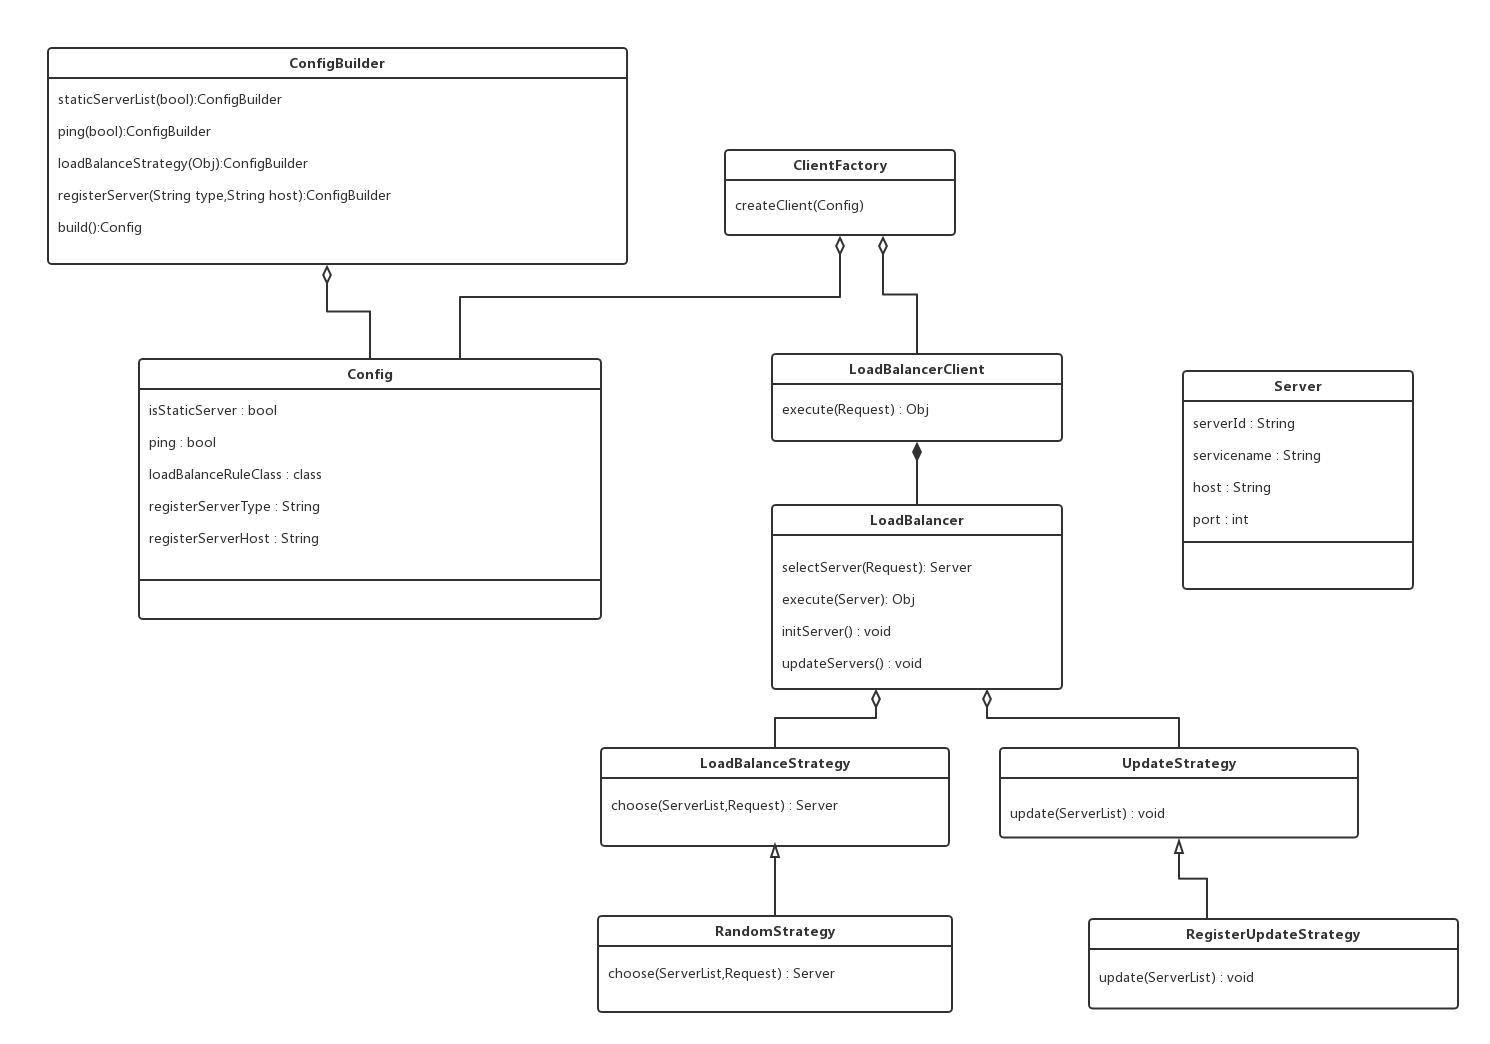
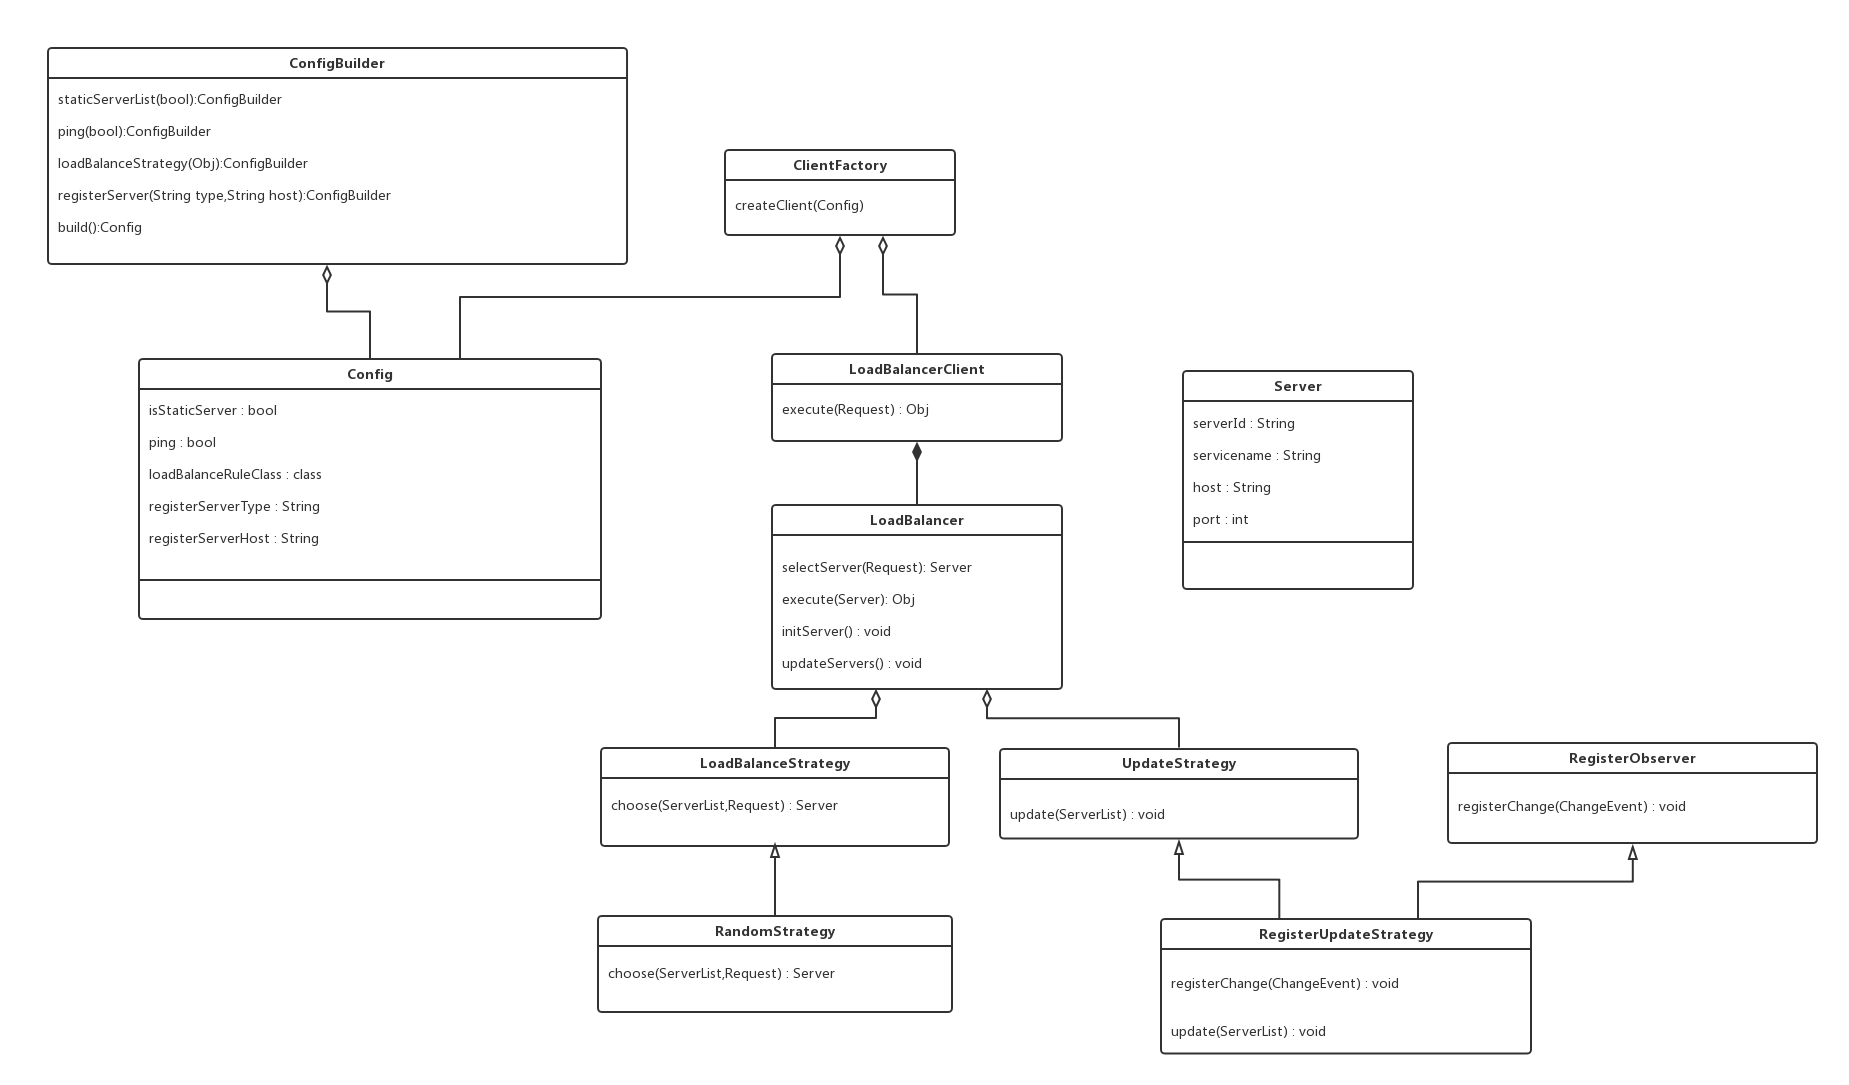
Updates fu-zai-jun-heng.md
Auto commit by GitBook Editor

diff --git a/fu-zai-jun-heng.md b/fu-zai-jun-heng.md
@@ -1,14 +1,6 @@
 # LoadBalance 模块
 
-## 词汇表
 
-| 英文 | 中文 | 备注 |
-| :--- | :--- | :--- |
-| Tokenlization | 序列化 |  |
-|  | Normalization | 标准化 |
-| Front Service | 前端服务 | 前端是相对而言的,这里是指调用搜索服务的一方 |
-| Data Provider | 数据提供者 | 如爬虫 |
-| Query | 查询语言 | 内部定义的查询语言类 |
 
 ## 一、概述
 
@@ -225,6 +217,9 @@ VO类,记录Server的各类属性
 
 ### 策略模式
 
+![](/assets/sbin/负载均衡策略.png)
+
+
 负载均衡模块有两处使用了策略模式.分别是负载均衡的策略和服务列表更新的策略.
 
 **负载均衡策略**
@@ -234,8 +229,16 @@ VO类,记录Server的各类属性
 **服务更新策略**
 
 服务列表可以来源于注册中心或手动配置.使用注册中心这意味着不需要自己去检测其状态,只需要监听即可.手动配置时需要定期ping服务器已确定其状态.这里采用不同的UpdateStrategy封装.
-![](/assets/sbin/负载均衡策略.png)
+
 
 ### 适配器模式
 
+![](/assets/sbin/负载均衡Adpter.png)
+
 对于面向注册中心的服务更新,需要监听Register发来的变化.这里让RegisterUpdateStrategy适配RegisterObserver接口,以监听变化并完成更新.
+
+### Builder
+
+![](/assets/sbin/负载均衡Builder.png)
+
+负载均衡的Config类是复杂的,并且其数据可能来源于配置文件,硬编码或者网络,因此使用Builder来处理其构造过程.![](/assets/负载均衡Builder.png)
